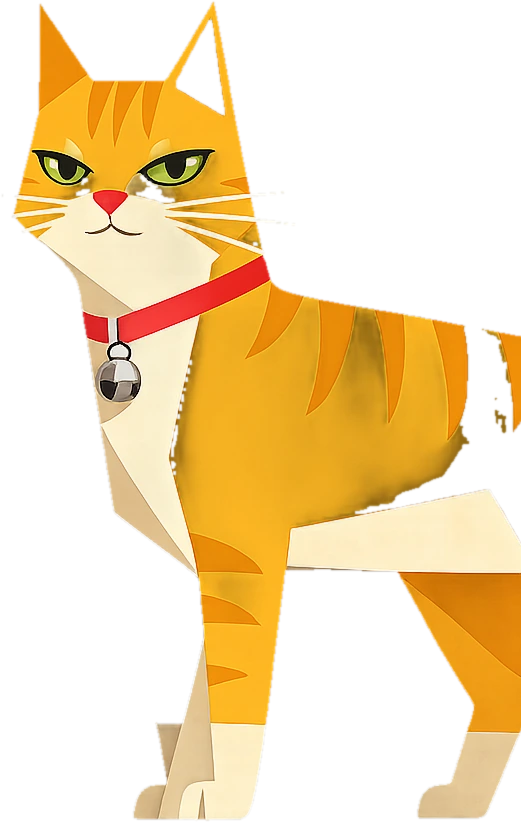
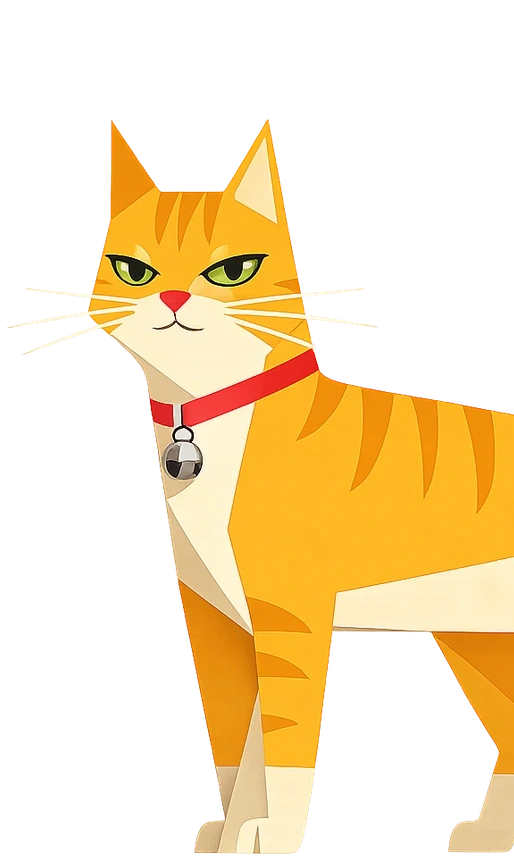
Hero: use the clean transparent Ezra (ezra-cat) cutout; Syne at normal weight (500) instead of heavy 800

diff --git a/docs/index.html b/docs/index.html
@@ -9,7 +9,7 @@
 <link rel="icon" href="assets/ezra-logo.png">
 <link rel="preconnect" href="https://fonts.googleapis.com">
 <link rel="preconnect" href="https://fonts.gstatic.com" crossorigin>
-<link href="https://fonts.googleapis.com/css2?family=Syne:wght@600;700;800&family=Space+Mono:wght@400;700&display=swap" rel="stylesheet">
+<link href="https://fonts.googleapis.com/css2?family=Syne:wght@400;500;600;700&family=Space+Mono:wght@400;700&display=swap" rel="stylesheet">
 <style>
   @font-face{font-family:'Poppins';src:url('assets/fonts/Poppins-Regular.woff2') format('woff2');font-weight:400;font-display:swap;}
   @font-face{font-family:'Poppins';src:url('assets/fonts/Poppins-SemiBold.woff2') format('woff2');font-weight:600;font-display:swap;}
@@ -73,7 +73,7 @@
   }
   .kicker::before{content:"";width:22px;height:1px;background:linear-gradient(90deg,var(--ember),transparent);}
 
-  h1,h2,h3{font-family:var(--display);font-weight:800;letter-spacing:-.01em;line-height:1.02;margin:0;}
+  h1,h2,h3{font-family:var(--display);font-weight:500;letter-spacing:-.005em;line-height:1.05;margin:0;}
 
   /* ---------- NAV ---------- */
   .nav{position:sticky;top:0;z-index:50;backdrop-filter:blur(12px) saturate(1.2);
@@ -84,14 +84,14 @@
   .brand .mark{width:38px;height:38px;border-radius:50%;overflow:hidden;flex:none;
     box-shadow:0 0 0 1px var(--line-2), 0 6px 18px rgba(255,120,20,.25);background:var(--card);}
   .brand .mark img{width:100%;height:100%;object-fit:cover;}
-  .brand .word{font-family:var(--display);font-weight:800;font-size:1.5rem;color:var(--cream);line-height:1;}
+  .brand .word{font-family:var(--display);font-weight:600;font-size:1.5rem;color:var(--cream);line-height:1;}
   .brand .chip{font-family:var(--mono);font-size:.6rem;color:var(--amber);border:1px solid var(--line-2);
     padding:2px 7px;border-radius:20px;letter-spacing:.08em;}
   .nav-links{display:flex;align-items:center;gap:28px;}
   .nav-links a{text-decoration:none;color:var(--muted);font-family:var(--mono);font-size:.72rem;
     letter-spacing:.1em;text-transform:uppercase;transition:color .2s;}
   .nav-links a:hover{color:var(--amber);}
-  .nav-cta{display:inline-flex;align-items:center;gap:7px;text-decoration:none;color:#1c1105;font-weight:800;
+  .nav-cta{display:inline-flex;align-items:center;gap:7px;text-decoration:none;color:#1c1105;font-weight:600;
     font-family:var(--display);font-size:.98rem;padding:9px 18px;border-radius:40px;
     background:linear-gradient(135deg,var(--amber),var(--ember));
     box-shadow:0 6px 18px rgba(255,120,20,.3), inset 0 1px 0 rgba(255,255,255,.4);
@@ -255,7 +255,7 @@
   .callout{border-radius:18px;padding:24px;position:relative;overflow:hidden;
     background:linear-gradient(160deg, rgba(255,138,26,.14), rgba(198,69,31,.06));
     border:1px solid var(--line-2);}
-  .callout .hl{font-family:var(--display);font-weight:800;font-size:1.2rem;color:var(--honey);margin:0 0 4px;}
+  .callout .hl{font-family:var(--display);font-weight:600;font-size:1.2rem;color:var(--honey);margin:0 0 4px;}
   .callout p{margin:0;color:var(--muted);font-size:.92rem;}
   .beta-tag{display:inline-block;font-family:var(--mono);font-size:.6rem;letter-spacing:.12em;text-transform:uppercase;
     color:#1c1105;background:linear-gradient(135deg,var(--amber),var(--ember));padding:3px 10px;border-radius:30px;margin-bottom:12px;font-weight:700;}
